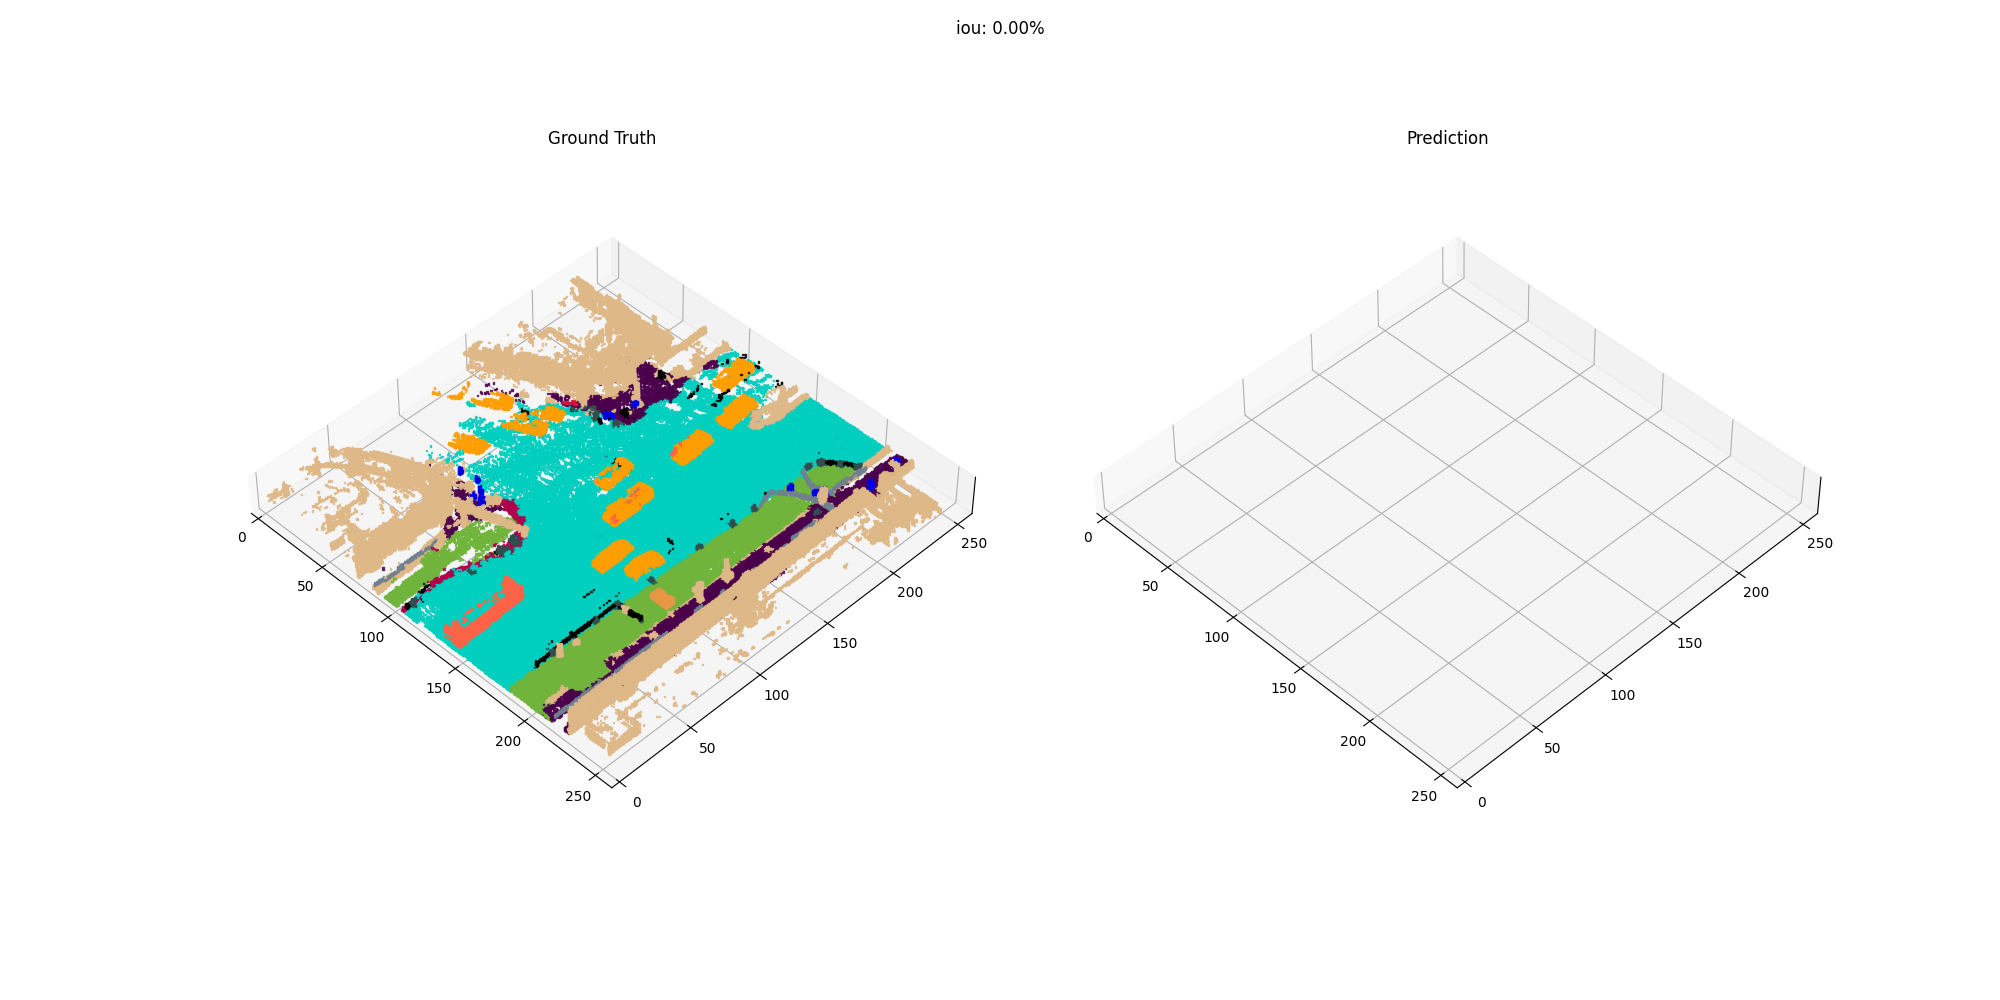
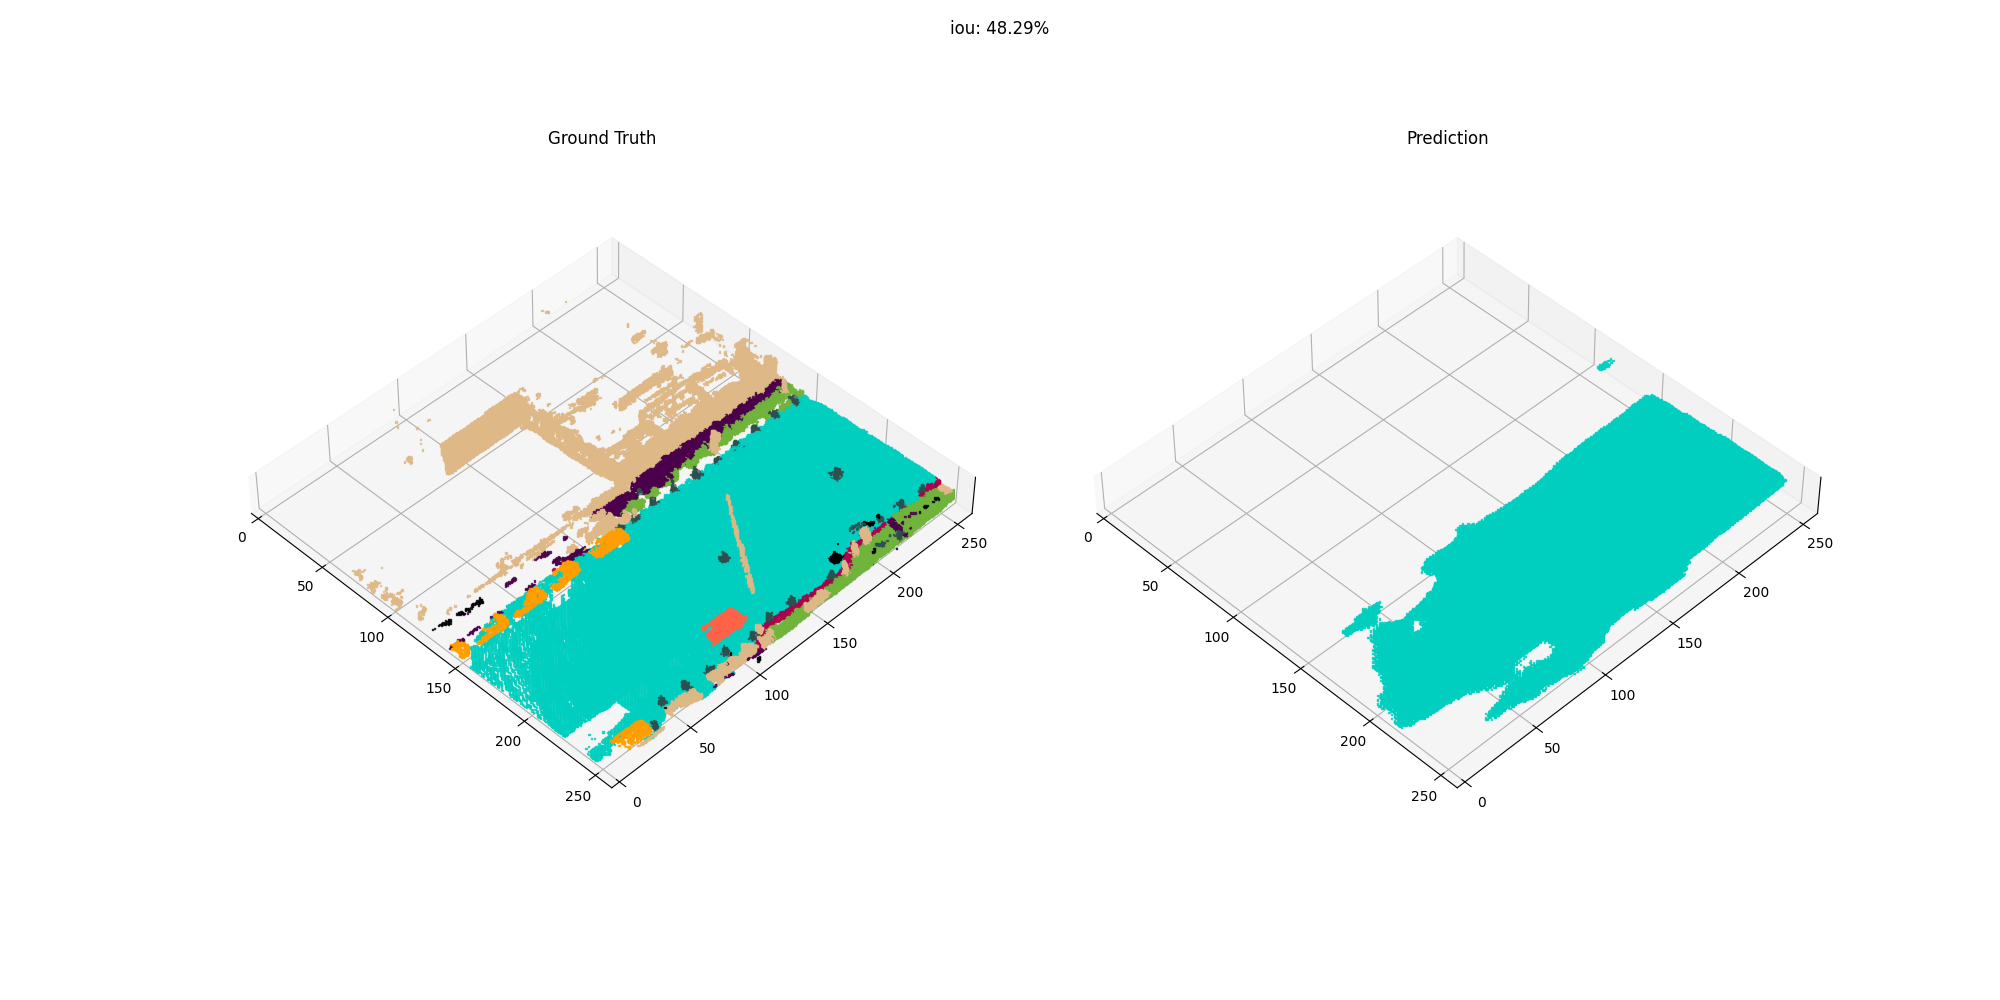
update

Changed region(s): [[0.124, 0.279, 0.496, 0.775], [0.651, 0.372, 0.899, 0.744], [0.496, 0.0, 0.527, 0.031]]

diff --git a/occupancy/pipelines/autoencoderkl_3d.py b/occupancy/pipelines/autoencoderkl_3d.py
@@ -229,7 +229,7 @@ class AutoEncoderKL3dConfig:
     latent_dim: int = 16
     base_channels: int = 64
     multiplier: int = 2
-    num_layers: int = 3
+    num_layers: int = 4
 
 
 class AutoEncoderKL3d(nn.Module):
